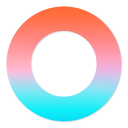
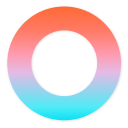
修改对话流icon不清晰以及combo列表不能滚动的问题

diff --git a/src/components/chatbot/ChatBotTalks.tsx b/src/components/chatbot/ChatBotTalks.tsx
@@ -265,7 +265,7 @@ const createListItem = (data: any, index: number, debug: boolean) => {
             data.type == 'suggest' && !debug ? <>
                 {
                     data.hi ?
-                        createAvatar(data.avatarUrl || chrome.runtime.getURL('public/icon-34.png'), data.hi) : ''
+                        createAvatar(data.avatarUrl || chrome.runtime.getURL('public/icon-128.png'), data.hi) : ''
                 }
                 {
                     data.html ?

diff --git a/src/components/combo/ComboEditor.tsx b/src/components/combo/ComboEditor.tsx
@@ -242,6 +242,7 @@ class ComboEditor extends React.Component {
                     // flex: 1,
                     height: 'calc(100% - 80px)',
                     paddingTop: 0,
+                    overflowY: 'auto',
                 }}
 
                 extra={<div>
